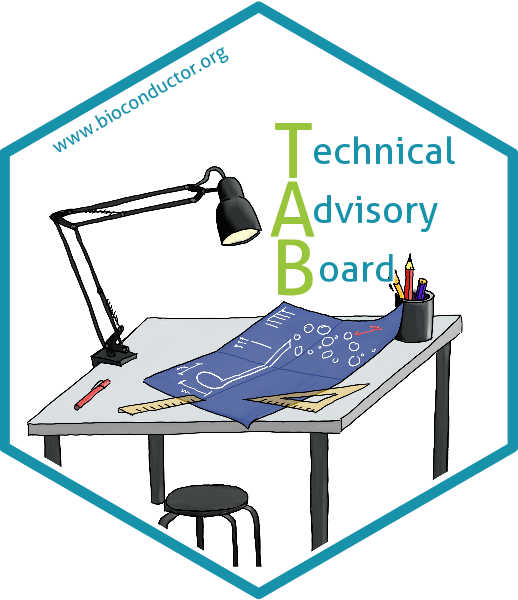
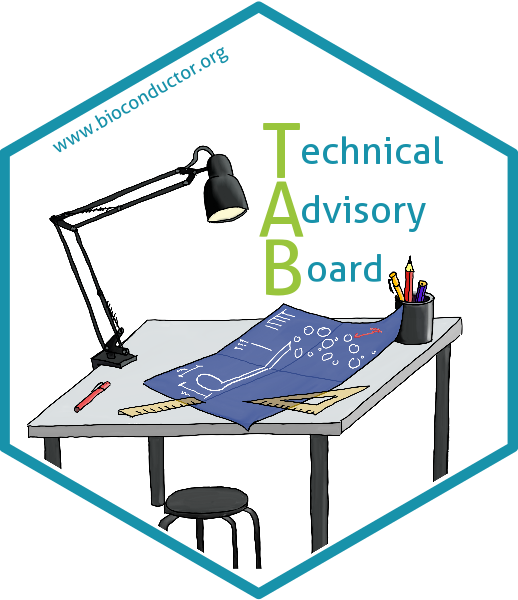
Updated TAB sticker following @lgatto's suggestion

Changed region(s): [[0.0309, 0.21, 0.8958, 0.78], [0.3089, 0.78, 0.4942, 0.9], [0.834, 0.78, 0.8649, 0.81]]

diff --git a/boards/TAB/README.md b/boards/TAB/README.md
@@ -3,6 +3,7 @@
 * This is the logo and sticker for the Bioconductor [Technical Advisory
   Board](https://bioconductor.org/about/technical-advisory-board/).
 * Sticker designer: Johannes Rainer (@jorainer; twitter: @jo_rainer).
+* Contributions and Suggestions: Laurent Gatto (@lgatto).
 * License for the sticker and all drawings and pictures in this folder: Creative
   Commons Attribution
   [CC-BY](https://creativecommons.org/licenses/by/2.0/). Feel free to share and
